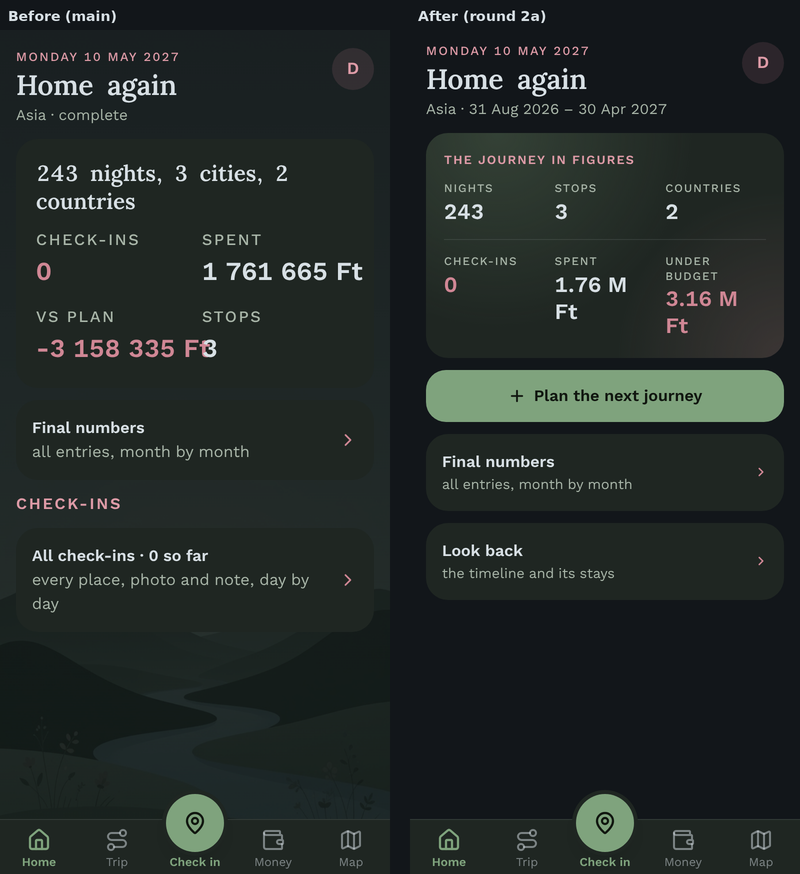
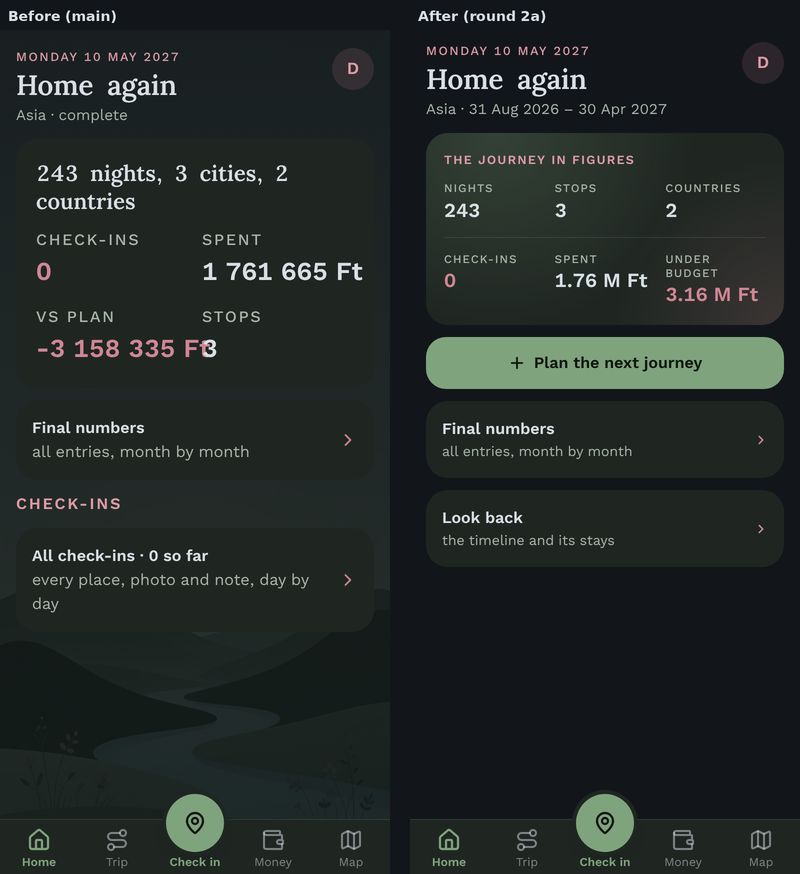
Round 2a: the recap's figures on one line each; pictures retaken
Claude-Session: https://claude.ai/code/session_01Y4cNLRyg5RPwirJJGrzXfV

diff --git a/product/src/app/(app)/dashboard/DashboardClient.tsx b/product/src/app/(app)/dashboard/DashboardClient.tsx
@@ -164,7 +164,7 @@ export default function DashboardClient({
     const figure = (label: string, value: string, tone = 'text-tx') => (
       <div className="min-w-0">
         <div className="text-[11.5px] font-medium uppercase leading-tight tracking-[.096em] text-tx2">{label}</div>
-        <div className={'mt-0.5 text-[22px] font-semibold leading-tight tabular-nums ' + tone}>{value}</div>
+        <div className={'mt-0.5 whitespace-nowrap text-[20px] font-semibold leading-tight tabular-nums ' + tone}>{value}</div>
       </div>
     )
     const row = (href: string, title: string, sub: string) => (
